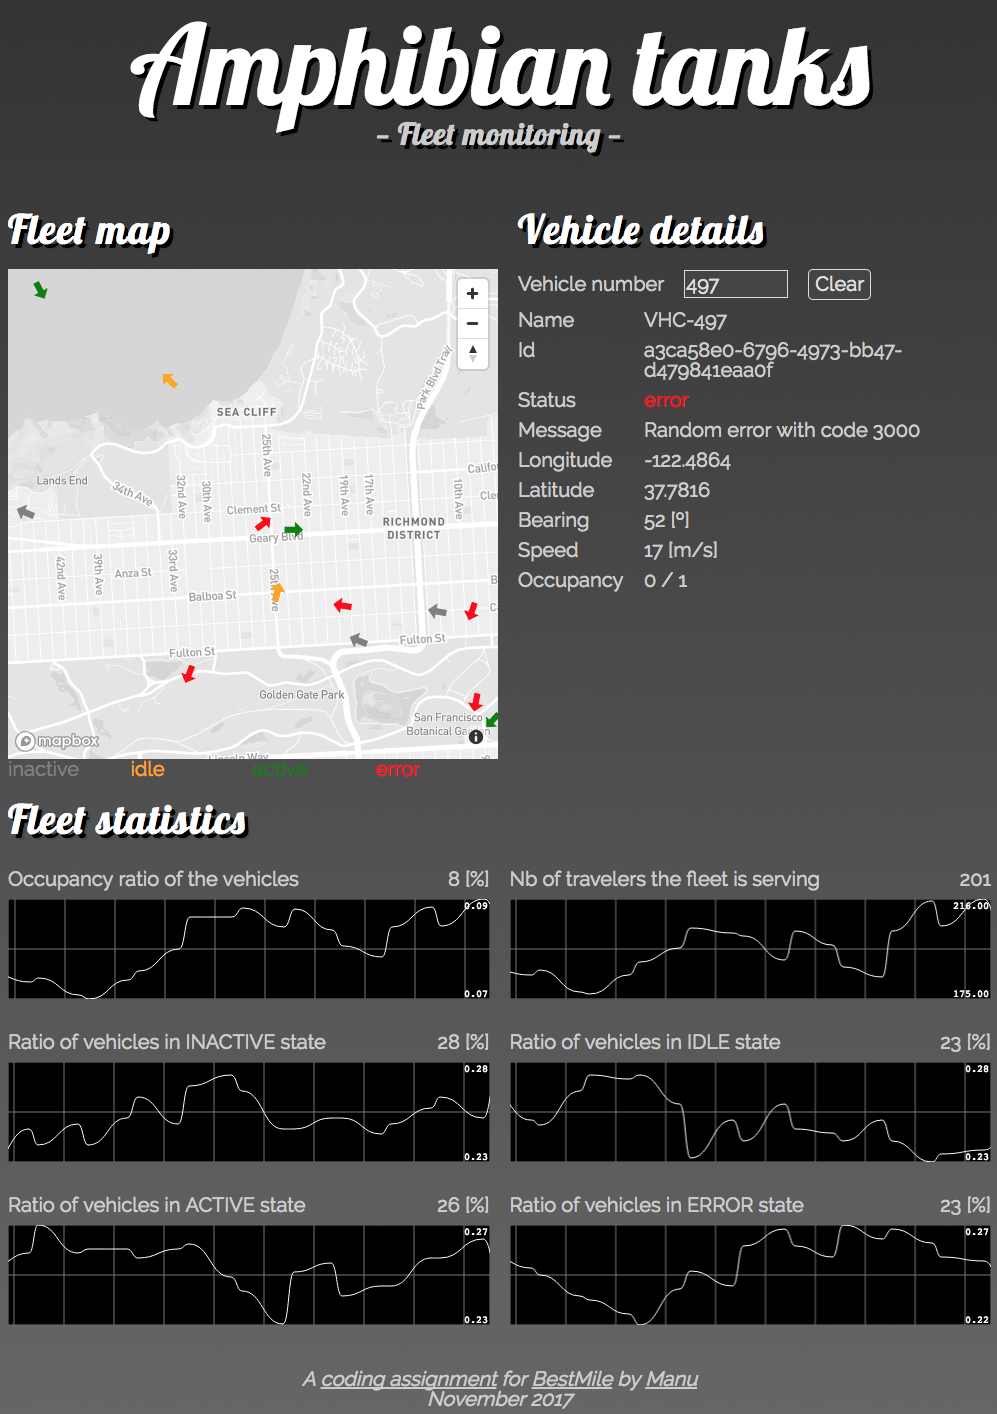
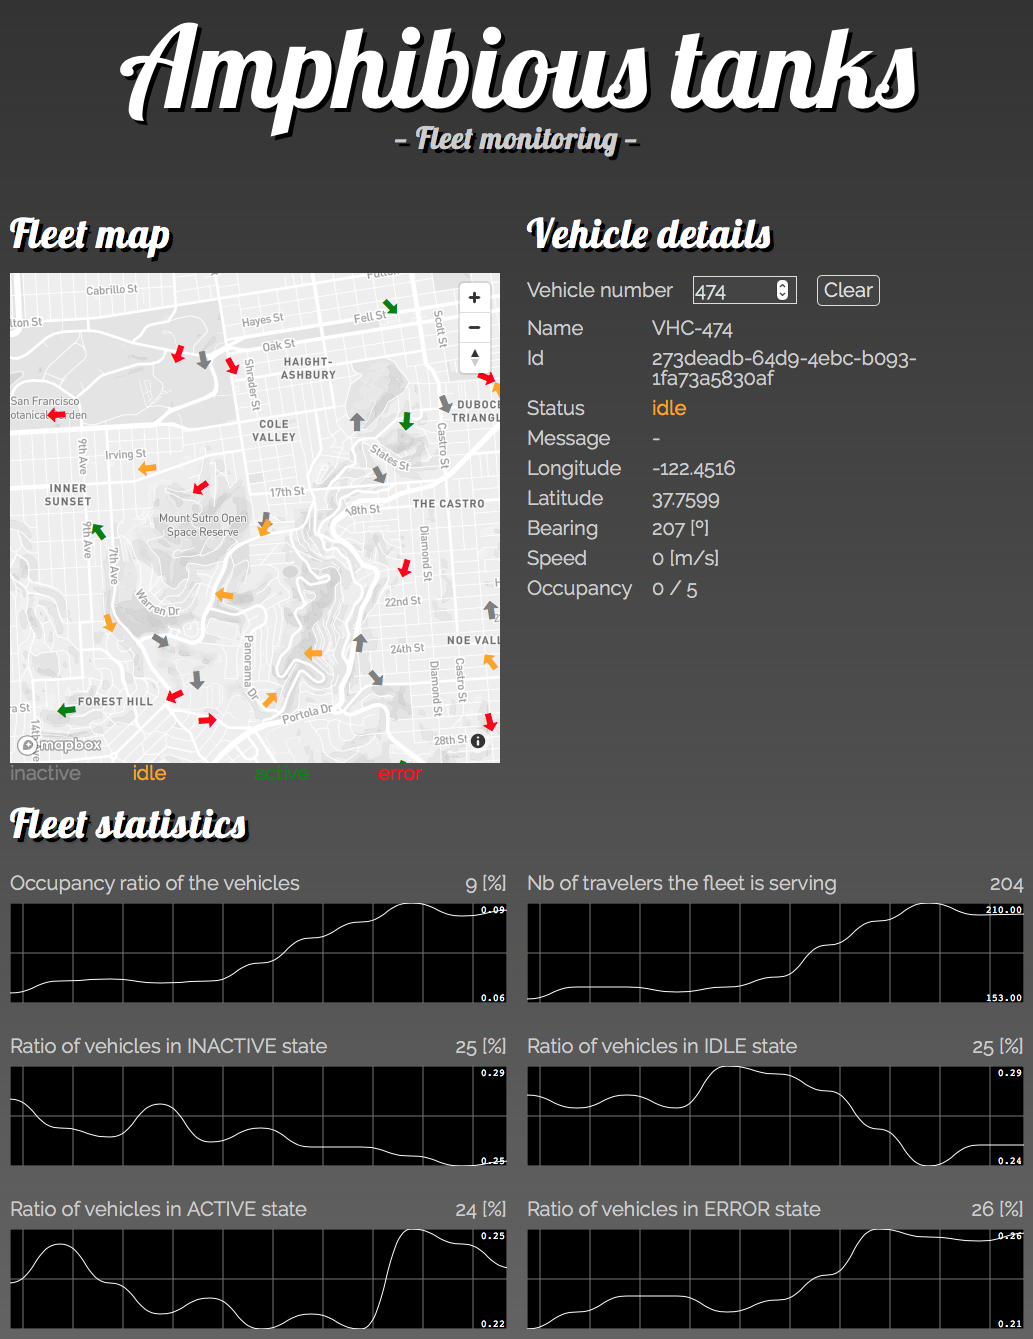
amphibious not amphibian

diff --git a/client/src/App.js b/client/src/App.js
@@ -64,7 +64,7 @@ class App extends Component {
     return (
       <div className="app-container">
         <header>
-          <h1>Amphibian tanks</h1>
+          <h1>Amphibious tanks</h1>
           <h3>Fleet monitoring</h3>
         </header>
         <main>

diff --git a/README.md b/README.md
@@ -33,7 +33,7 @@ I chose to use Mapbox, just not to use the ubiquitous Google Maps. The [react-ma
 
 The vehicles are displayed as [⬆ arrows](client/src/components/VehicleMarker.js) to easily visualise the bearing. This is a unicode character that is actually displayed as an emoji on iOS (for example, see screenshot). To avoid this, I could use an SVG arrow, or an actual car icon. 
 
-![the app on an iPad](doc/assets/ipad.jpeg "the app on an iPad")
+![the app on an iPad](doc/assets/ipad.jpg "the app on an iPad")
 
 I haven't invested any time into trying to make the map responsive. This might be my biggest disappointment, because mobile/tablet friendliness is something I value very highly!
 
